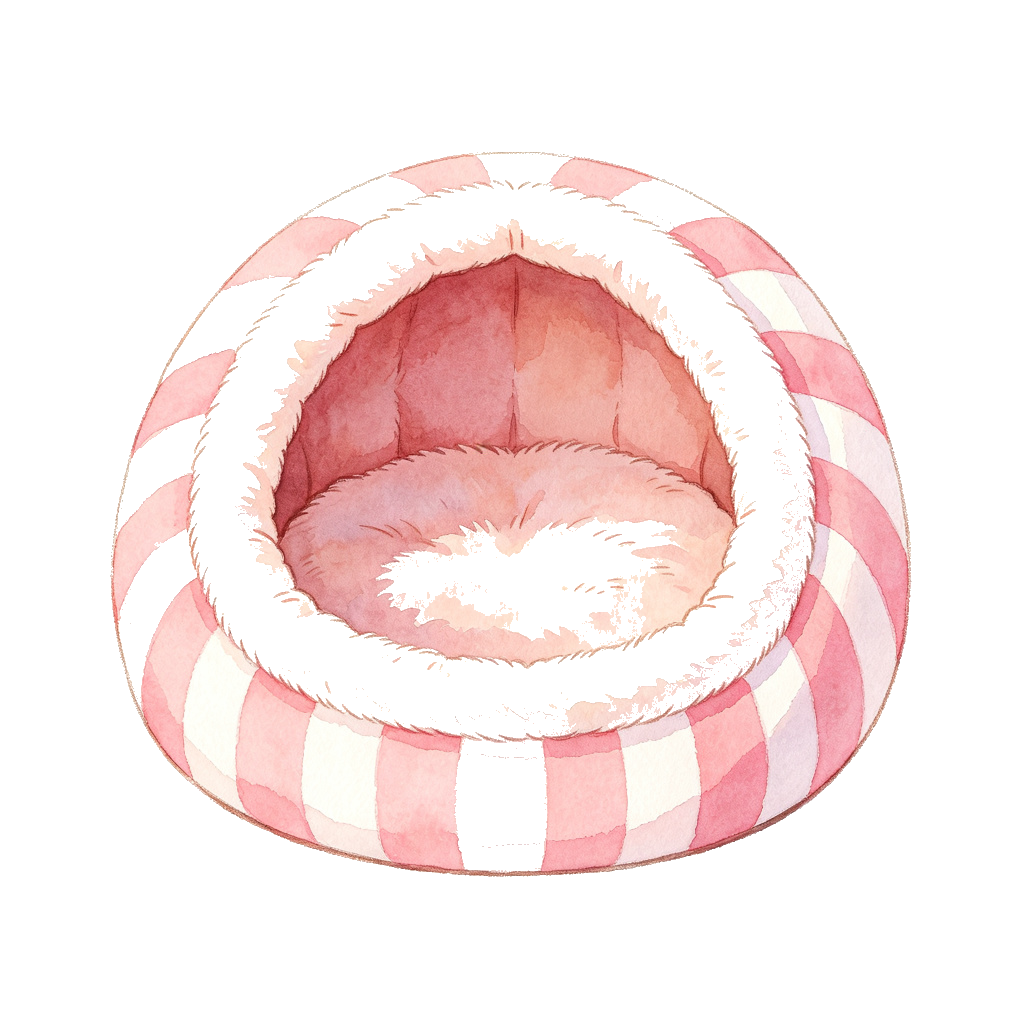
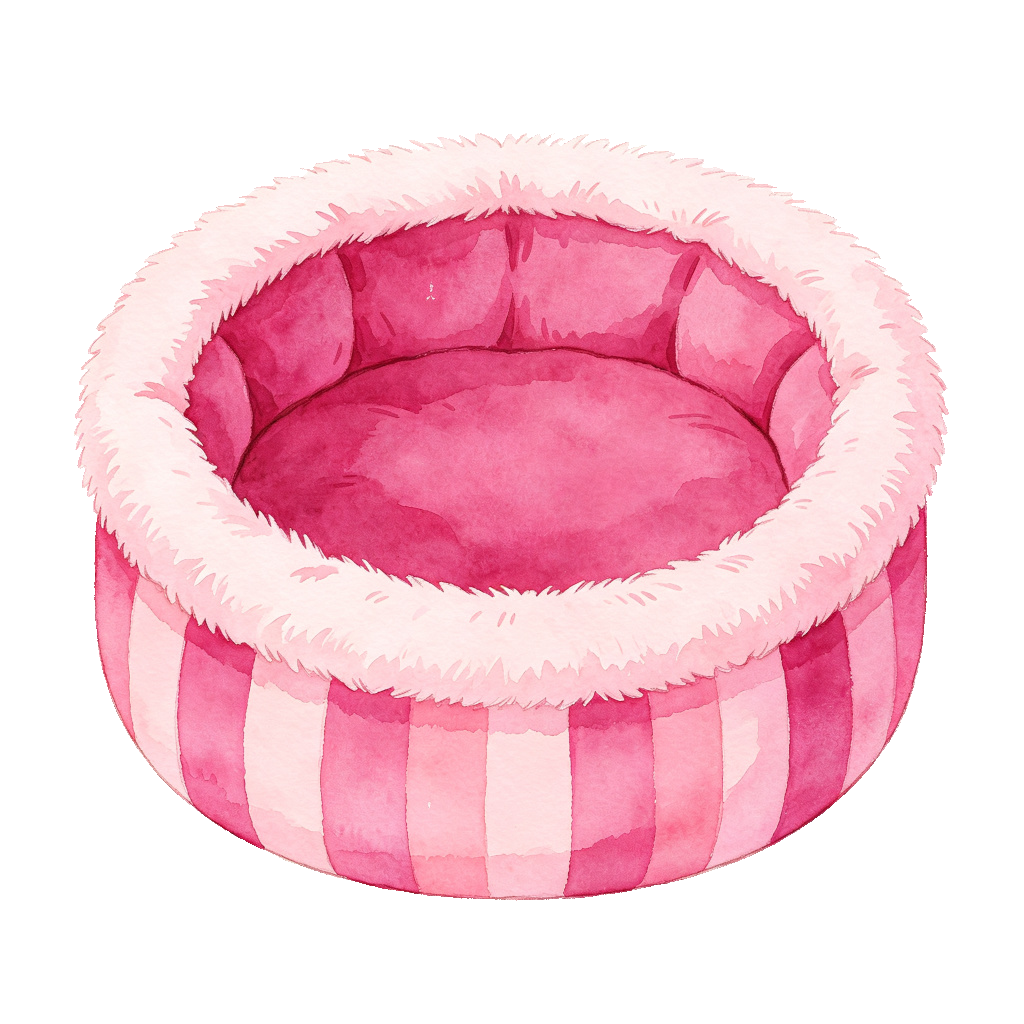
1) 小牛头像重制为卡通水彩形象(圆润大眼腮红, 白斑带奶黄底+描边, 身体不再透明); 2) 猫窝重制: 深玫粉内衬+浅粉毛绒边, flood-fill容差调至14只抠纯白背景, 窝体内部不再透明; 3) 地图徽章区分: 正常tab=图标+个数, 保存地图=图标+类别名两行小字(grid 4列); 4) 区域建筑icon桌面放大2.5x/移动缩小1.2x; 5) 乐园窝容器改扁让XX之家贴近窝; 6) 版本参数升级v20260907

diff --git a/index.html b/index.html
@@ -489,9 +489,9 @@
   .screenshot-mode .mapActions .compass{display:inline-flex !important;}
   .screenshot-mode .mapTopRow{flex-direction:row !important; align-items:center; justify-content:space-between;}
   .screenshot-mode .mapStats{display:none !important;}
-  .screenshot-mode .mapBadges{margin:0; flex-wrap:nowrap; gap:3px; align-items:center;}
-  .screenshot-mode .mapBadge img{width:14px !important; height:14px !important;}
-  .screenshot-mode .mapBadge b{font-size:10px !important;}
+  .screenshot-mode .mapBadges{margin:0; display:grid; grid-template-columns:repeat(4,auto); justify-content:center; align-content:center; gap:2px 6px; align-items:center; max-width:64%;}
+  .screenshot-mode .mapBadge img{width:13px !important; height:13px !important;}
+  .screenshot-mode .mapBadge b{font-size:9px !important; font-weight:600;}
   .screenshot-mode .pencilMark{display:none !important;}
   .screenshot-mode .tileFt{display:none !important;}
   .screenshot-mode .mapGrid{grid-template-columns:repeat(2,1fr) !important;}
@@ -3408,6 +3408,15 @@ function saveTownScreenshot(){
   if(mapStatsEl){ const od=mapStatsEl.style.display; mapStatsEl.style.display="none"; undos.push(()=>{ mapStatsEl.style.display=od; }); }
   if(signWrap&&signWrap!==outer.firstChild) _mv(signWrap, outer, outer.firstChild);
   if(badgesEl&&mapTop) _mv(badgesEl, mapTop, mapActionsEl);
+  // 截图时徽章显示 图标+类别名（两行小字）；正常展示为 图标+个数
+  if(badgesEl){
+    [...badgesEl.querySelectorAll(".mapBadge")].forEach(m=>{
+      const bid=m.getAttribute("data-bid");
+      const b=BUILDINGS.find(x=>x.id===bid);
+      const bn=m.querySelector("b");
+      if(bn&&b){ const orig=bn.innerHTML; const nm=LANG==="en"?b.en:b.n; if(nm!==orig){ bn.innerHTML=nm; undos.push(()=>{ bn.innerHTML=orig; }); } }
+    });
+  }
   // 指南针移到标题右侧，去掉 N 文字
   if(compassEl&&signWrap){
     const compassOrig=compassEl.innerHTML;
@@ -3688,8 +3697,8 @@ function renderPark(){
     div.dataset.slot=slotIdx;
     if(selectedParkSlot===slotIdx) div.classList.add("parkSlotSel");
     if(pet){
-      const defaultImg=`assets/pets/${pet.id}.png?v=20260904`;
-      const homeImg=`assets/pet-homes/${pet.id}.png?v=20260905`;
+      const defaultImg=`assets/pets/${pet.id}.png?v=20260907`;
+      const homeImg=`assets/pet-homes/${pet.id}.png?v=20260907`;
       // 宠物头像（放在窝前面）
       const petAvatar=pet.avatar
         ?`<img src="${pet.avatar}" style="width:100%;aspect-ratio:1;border-radius:50%;object-fit:cover;border:2px solid rgba(255,255,255,.85);box-shadow:0 2px 8px rgba(0,0,0,.35);">`
@@ -3697,11 +3706,11 @@ function renderPark(){
       const nameLabel=LANG==="en"?`${pet.name}'s Home`:`${pet.name}之家`;
       div.innerHTML=`
         <div style="display:flex;flex-direction:column;align-items:center;gap:2px;width:100%;">
-          <div style="position:relative;width:100%;aspect-ratio:1;display:flex;align-items:center;justify-content:center;">
+          <div style="position:relative;width:100%;aspect-ratio:100/72;display:flex;align-items:center;justify-content:center;">
             <img src="${homeImg}" style="position:absolute;inset:0;width:100%;height:100%;object-fit:contain;filter:drop-shadow(0 2px 6px rgba(0,0,0,.3));" onerror="this.style.display='none'">
-            <div style="position:relative;z-index:2;width:46%;">${petAvatar}</div>
+            <div style="position:relative;z-index:2;width:42%;">${petAvatar}</div>
           </div>
-          <span style="font-size:clamp(8px,2.2vw,12px);font-weight:700;color:#fff;background:linear-gradient(135deg,#8B4513,#A0522D);padding:1px 8px;border-radius:8px;white-space:nowrap;max-width:90%;overflow:hidden;text-overflow:ellipsis;box-shadow:0 1px 4px rgba(0,0,0,.4);text-shadow:0 1px 2px rgba(0,0,0,.5);">${nameLabel}</span>
+          <span style="margin-top:-4px;font-size:clamp(8px,2.2vw,12px);font-weight:700;color:#fff;background:linear-gradient(135deg,#8B4513,#A0522D);padding:1px 8px;border-radius:8px;white-space:nowrap;max-width:90%;overflow:hidden;text-overflow:ellipsis;box-shadow:0 1px 4px rgba(0,0,0,.4);text-shadow:0 1px 2px rgba(0,0,0,.5);">${nameLabel}</span>
         </div>`;
       div.title=pet.name;
       if(mobile){
@@ -3950,7 +3959,7 @@ function renderPets(){
     const sickTag=p.sick?`<span style="color:#ff7a7a">🤒</span>`:"";
     const cureCost=(p.maxHp-p.hp)*2;
     const packImg=assetCache.get("pets:"+p.id);
-    const defaultImg=packImg||`assets/pets/${p.id}.png?v=20260904`;
+    const defaultImg=packImg||`assets/pets/${p.id}.png?v=20260907`;
     const avatarSrc=p.avatar||defaultImg;
     const hpColor=p.sick?'#ff7a7a':'#4cd97b';
     card.innerHTML=`
@@ -4151,7 +4160,7 @@ function renderPetDetail(){
   const ibonus=intimacyBonus(p.intimacy);
   const value=petValue(p);
   const packImg=assetCache.get("pets:"+p.id);
-  const defaultImg=packImg||`assets/pets/${p.id}.png?v=20260904`;
+  const defaultImg=packImg||`assets/pets/${p.id}.png?v=20260907`;
   const avatarHtml=p.avatar?`<img src="${p.avatar}" style="width:64px;height:64px;border-radius:50%;object-fit:cover;border:2px solid var(--gold);">`:`<img src="${defaultImg}" style="width:64px;height:64px;border-radius:50%;object-fit:cover;border:2px solid var(--gold);animation:petBounce 2.2s ease-in-out infinite;">`;
   const canUpload=lvl>=10;
   $("#petDetailContent").innerHTML=`
@@ -4881,7 +4890,7 @@ function renderMap(){
   });
   const bc={};
   Object.values(S.plots).flat().forEach(p=>{if(p&&p!==null)bc[p]=(bc[p]||0)+1;});
-  const badges=Object.entries(bc).map(([bid])=>{const b=BUILDINGS.find(x=>x.id===bid);const bldUrl=assetCache.get("buildings:"+bid)||`assets/buildings/${bid}.png?v=20260906`;return `<span class="mapBadge"><img src="${bldUrl}" style="width:15px;height:15px;object-fit:contain;vertical-align:middle;background:transparent;" onerror="this.outerHTML='${b?b.i:"❓"}'" alt="${b?b.n:""}"><b>${LANG==="en"?(b?b.en:"?"):(b?b.n:"?")}</b></span>`;}).join("")||`<span style="font-size:11px;color:var(--dim)">${t("town.noBuildings")}</span>`;
+  const badges=Object.entries(bc).map(([bid,n])=>{const b=BUILDINGS.find(x=>x.id===bid);const bldUrl=assetCache.get("buildings:"+bid)||`assets/buildings/${bid}.png?v=20260906`;return `<span class="mapBadge" data-bid="${bid}"><img src="${bldUrl}" style="width:15px;height:15px;object-fit:contain;vertical-align:middle;background:transparent;" onerror="this.outerHTML='${b?b.i:"❓"}'" alt="${b?b.n:""}"><b>${n}</b></span>`;}).join("")||`<span style="font-size:11px;color:var(--dim)">${t("town.noBuildings")}</span>`;
   let hint="";
   if(freeMove) hint=`<div style="background:#54d9ff22;border:1px solid #54d9ff;border-radius:8px;padding:6px 10px;margin-bottom:8px;font-size:12px;color:#9fe8ff;">${t("town.freeMoveHint")} <button onclick="cancelFreeMove()" style="background:none;border:none;color:#54d9ff;cursor:pointer;text-decoration:underline;font-size:12px;">${t("town.cancel")}</button></div>`;
   else if(moveMode) hint=`<div style="background:#4cd97b22;border:1px solid #4cd97b;border-radius:8px;padding:6px 10px;margin-bottom:8px;font-size:12px;">${t("town.moveMode")} <button onclick="cancelSelection()" style="background:none;border:none;color:#4cd97b;cursor:pointer;text-decoration:underline;font-size:12px;">${t("town.cancel")}</button></div>`;
@@ -4925,7 +4934,7 @@ function renderMap(){
     const defaultBg=`assets/regions/${r.id}.png?v=${r.id==="center"?"20260905":"20260902"}`;
     const plots=S.plots[r.id]||[];
     const _mobMap=window.innerWidth<=860||isTouchDevice();
-    const bldSize=Math.round(32*(_mobMap?1.5:2)); // 全区域统一图标显示大小：桌面2x/移动1.5x
+    const bldSize=Math.round(32*(_mobMap?1.2:2.5)); // 全区域统一图标显示大小：桌面2.5x/移动1.2x
     const emojiPx=Math.round(bldSize*0.7);
     const points=BUILDABLE_POINTS[r.id]||[];
     // 构建建筑槽（只渲染 r.plots 个；兼容 center 从 12 降到 8 的旧档）
